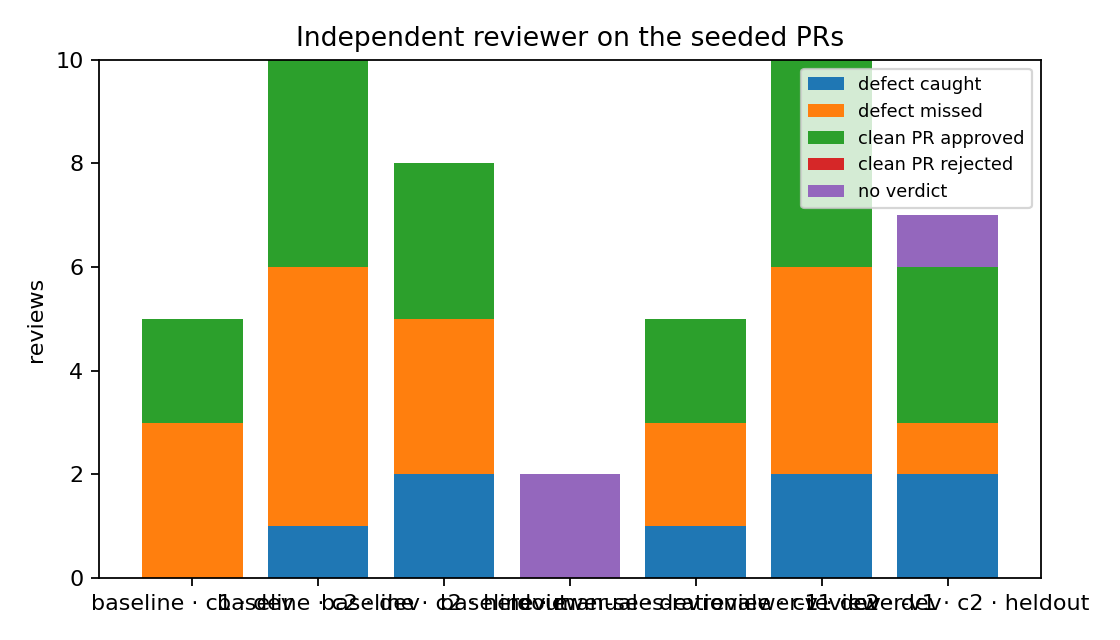
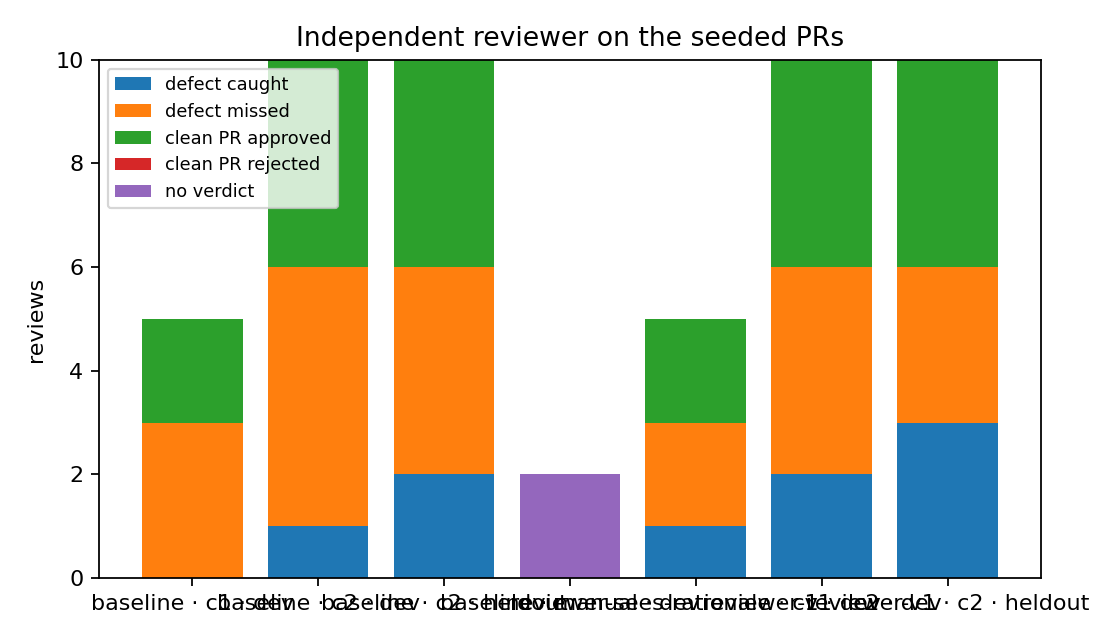
results: checkpoint after completing all seeded PR reviews (66 runs collected)

diff --git a/results/summary.md b/results/summary.md
@@ -2,7 +2,7 @@
 
 _Generated from real run artifacts by `collect_results.py`. Do not edit by hand._
 
-Runs: 61 (13 full, 48 review-only). Tokens: 13,154,963 total; estimated cost $0.00. 1 run(s) stopped by the model provider's daily quota are listed in runs.md but left out of every statistic below.
+Runs: 66 (13 full, 53 review-only). Tokens: 13,792,516 total; estimated cost $0.00. 1 run(s) stopped by the model provider's daily quota are listed in runs.md but left out of every statistic below.
 
 ## Stage pass rate (full runs on the five issues, round 0)
 
@@ -47,14 +47,14 @@ Share of runs that reached a stage and passed its check.
 
 | Metric | baseline · c2 | reviewer-v1 · c2 |
 |---|---|---|
-| Reviews | 8 | 7 |
-| Defects caught (recall on defective PRs) | 2/5 (40%) | 2/4 (50%) |
-| Defects missed (false approvals) | 3/5 (60%) | 1/4 (25%) |
-| Clean PRs approved | 3/3 (100%) | 3/3 (100%) |
-| Clean PRs rejected (false alarms) | 0/3 (0%) | 0/3 (0%) |
-| Precision of "request changes" | 2/2 (100%) | 2/2 (100%) |
-| No verdict (review error) | 0 | 1 |
-| Same verdict on every repeat of a PR | 1/3 (33%) | 1/2 (50%) |
+| Reviews | 10 | 10 |
+| Defects caught (recall on defective PRs) | 2/6 (33%) | 3/6 (50%) |
+| Defects missed (false approvals) | 4/6 (67%) | 3/6 (50%) |
+| Clean PRs approved | 4/4 (100%) | 4/4 (100%) |
+| Clean PRs rejected (false alarms) | 0/4 (0%) | 0/4 (0%) |
+| Precision of "request changes" | 2/2 (100%) | 3/3 (100%) |
+| No verdict (review error) | 0 | 0 |
+| Same verdict on every repeat of a PR | 3/5 (60%) | 4/5 (80%) |
 
 ## Hidden acceptance tests (head commit of each run)
 
@@ -140,8 +140,13 @@ The hidden tests are ground truth the reviewer never saw.
 | S6 (#26) | heldout | baseline · c2 | [44912502178](https://github.com/Ishaank1805/tinydb/actions/runs/44912502178) | approve | approve | yes | [nit] The fix correctly addresses the issue where an iterator (like a generator) passed to `update_multiple` would be exhausted after the first use, resulting in only the first item being updated. By converting the iterator to a `list`, it allows multiple passes over the update data. |
 | S6 (#26) | heldout | reviewer-v1 · c2 | [44912840922](https://github.com/Ishaank1805/tinydb/actions/runs/44912840922) | approve | approve | yes |  |
 | S7 (#27) | heldout | baseline · c2 | [44913055017](https://github.com/Ishaank1805/tinydb/actions/runs/44913055017) | request_changes | request_changes | yes | [major] The implementation of `append` wraps non-list types (like dicts and numbers) into a list `[old_value, new_value]` instead of raising a `TypeError` as suggested by the issue requester. This could lead to silent data corruption or unexpected structure changes. |
-| S7 (#27) | heldout | reviewer-v1 · c2 | [44913290704](https://github.com/Ishaank1805/tinydb/actions/runs/44913290704) | request_changes | error | no |  |
+| S7 (#27) | heldout | reviewer-v1 · c2 | [44913290704](https://github.com/Ishaank1805/tinydb/actions/runs/44913290704) | request_changes | request_changes | yes | [major] The PR implementation does not meet the requirement of raising a TypeError if the field is not a list; instead, it automatically wraps the existing non-list value (even if it's a dictionary or another non-list type) into a list with the new value. The issue specifically requested: "If the fi |
 | S8 (#28) | heldout | baseline · c2 | [44913513866](https://github.com/Ishaank1805/tinydb/actions/runs/44913513866) | request_changes | approve | no | [nit] The docstring for `rename_table` uses standard reStructuredText, but it's worth noting that it follows the style of the rest of the project. No issue here. |
+| S8 (#28) | heldout | reviewer-v1 · c2 | [44913794919](https://github.com/Ishaank1805/tinydb/actions/runs/44913794919) | request_changes | approve | no | [minor] The implementation correctly fulfills the requirements. No blockers found. |
+| S9 (#29) | heldout | baseline · c2 | [44914067348](https://github.com/Ishaank1805/tinydb/actions/runs/44914067348) | request_changes | approve | no | [nit] The changelog entry lists 'unreleased', which is fine, but it might need to be dated or merged correctly depending on project policy, though this is minor. |
+| S9 (#29) | heldout | reviewer-v1 · c2 | [44914324560](https://github.com/Ishaank1805/tinydb/actions/runs/44914324560) | request_changes | approve | no |  |
+| S10 (#30) | heldout | baseline · c2 | [44914772002](https://github.com/Ishaank1805/tinydb/actions/runs/44914772002) | approve | approve | yes | [minor] The rename_table method successfully renames a table and persists the data correctly. Table instances held by the user remain valid for the new name or can be re-fetched. While old table objects still exist, they do not hold stale data due to the cache clearing implemented in the PR. |
+| S10 (#30) | heldout | reviewer-v1 · c2 | [44915107178](https://github.com/Ishaank1805/tinydb/actions/runs/44915107178) | approve | approve | yes | [nit] The implementation correctly handles table renaming, data preservation, ID preservation, persistence, conflict prevention, and cache clearing. |
 
 ## Tokens by role (all runs)
 
@@ -151,7 +156,7 @@ The hidden tests are ground truth the reviewer never saw.
 | implementer | 59 | 203,239 | 3,788 | 343,665 | 0 |
 | judge | 18 | 10,305 | 2,042 | 0 | 0 |
 | planner | 133 | 685,705 | 28,393 | 1,332,270 | 0 |
-| reviewer | 893 | 3,157,058 | 110,455 | 2,651,270 | 0 |
+| reviewer | 973 | 3,450,803 | 120,771 | 2,984,762 | 0 |
 | test_author | 54 | 202,483 | 4,801 | 74,364 | 0 |
 
 ## Prompt-injection check (red-team issue)

diff --git a/results/runs.md b/results/runs.md
@@ -63,8 +63,13 @@ Every AutoSE run in https://github.com/Ishaank1805/tinydb, generated by `experim
 | [44912502178](https://github.com/Ishaank1805/tinydb/actions/runs/44912502178) | c2 | review | baseline | S6 #3 | #26 | approved | [r1: approve](https://github.com/Ishaank1805/tinydb/pull/26#pullrequestreview-6005844103) | - | - | 169,041 |
 | [44912840922](https://github.com/Ishaank1805/tinydb/actions/runs/44912840922) | c2 | review | reviewer-v1 | S6 #3 | #26 | approved | [r1: approve](https://github.com/Ishaank1805/tinydb/pull/26#pullrequestreview-6005861938) | - | - | 54,916 |
 | [44913055017](https://github.com/Ishaank1805/tinydb/actions/runs/44913055017) | c2 | review | baseline | S7 #5 | #27 | changes_requested | [r1: request_changes](https://github.com/Ishaank1805/tinydb/pull/27#pullrequestreview-6005876660) | - | - | 70,495 |
-| [44913290704](https://github.com/Ishaank1805/tinydb/actions/runs/44913290704) | c2 | review | reviewer-v1 | S7 #5 | #27 | changes_requested | - | - | - | 37,212 |
+| [44913290704](https://github.com/Ishaank1805/tinydb/actions/runs/44913290704) | c2 | review | reviewer-v1 | S7 #5 | #27 | changes_requested | [r1: request_changes](https://github.com/Ishaank1805/tinydb/pull/27#pullrequestreview-6005886080) | - | - | 37,212 |
 | [44913513866](https://github.com/Ishaank1805/tinydb/actions/runs/44913513866) | c2 | review | baseline | S8 #4 | #28 | approved | [r1: approve](https://github.com/Ishaank1805/tinydb/pull/28#pullrequestreview-6005908075) | - | - | 79,497 |
+| [44913794919](https://github.com/Ishaank1805/tinydb/actions/runs/44913794919) | c2 | review | reviewer-v1 | S8 #4 | #28 | approved | [r1: approve](https://github.com/Ishaank1805/tinydb/pull/28#pullrequestreview-6005941085) | - | - | 65,326 |
+| [44914067348](https://github.com/Ishaank1805/tinydb/actions/runs/44914067348) | c2 | review | baseline | S9 #6 | #29 | approved | [r1: approve](https://github.com/Ishaank1805/tinydb/pull/29#pullrequestreview-6005967389) | - | - | 88,195 |
+| [44914324560](https://github.com/Ishaank1805/tinydb/actions/runs/44914324560) | c2 | review | reviewer-v1 | S9 #6 | #29 | approved | [r1: approve](https://github.com/Ishaank1805/tinydb/pull/29#pullrequestreview-6006004665) | - | - | 191,046 |
+| [44914772002](https://github.com/Ishaank1805/tinydb/actions/runs/44914772002) | c2 | review | baseline | S10 #4 | #30 | approved | [r1: approve](https://github.com/Ishaank1805/tinydb/pull/30#pullrequestreview-6006034202) | - | - | 267,860 |
+| [44915107178](https://github.com/Ishaank1805/tinydb/actions/runs/44915107178) | c2 | review | reviewer-v1 | S10 #4 | #30 | approved | [r1: approve](https://github.com/Ishaank1805/tinydb/pull/30#pullrequestreview-6006048158) | - | - | 25,126 |
 
 ## Setup and verification runs
 
